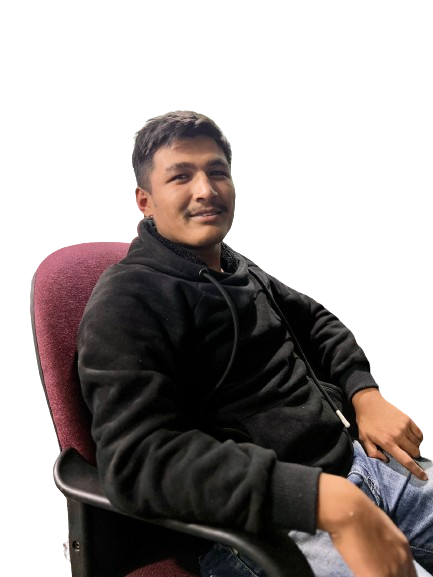
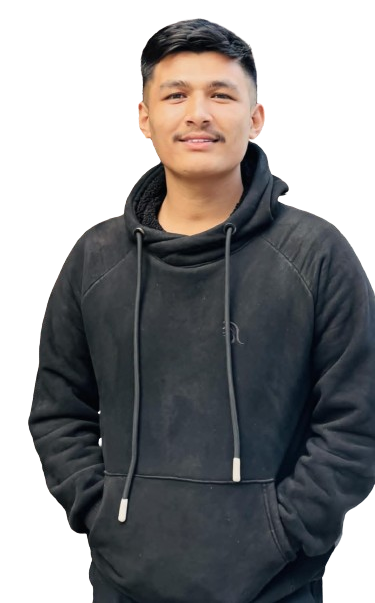
make some minor changes

diff --git a/src/components/Portfolio.jsx b/src/components/Portfolio.jsx
@@ -21,7 +21,7 @@ const Portfolio = () => {
             className="p-4 bg-black text-white rounded shadow-[0_0_10px_2px_rgba(225,225,225,0.3)] space-y-3"
           >
             <Image
-              src="/images/work/hotel-earthlight.png"
+              src="/images/work/saral-lagani.png"
               priority={true}
               height={2000}
               width={2000}
@@ -32,8 +32,8 @@ const Portfolio = () => {
               Saral Lagani
             </h3>
             <p className="text-gray-300">
-              Web application where you can find all
-              information related to NEPSE (Nepal Stock Exchange).
+              Web application where you can find all information related to
+              NEPSE (Nepal Stock Exchange).
             </p>
             <p className="text-red-500 text-sm font-medium">
               NextJS, NodeJS, Firebase, MySQL
@@ -65,6 +65,17 @@ const Portfolio = () => {
             </p>
           </a>
         </div>
+        <p className="text-lg font-medium text-gray-100">
+          More projects on my{" "}
+          <a
+            href="https://github.com/sandipshrest"
+            target="_blank"
+            rel="noreferrer"
+            className="underline text-purple-500"
+          >
+            Github
+          </a>
+        </p>
       </div>
     </section>
   );

diff --git a/src/components/header/page.js b/src/components/header/page.js
@@ -62,7 +62,7 @@ const Header = () => {
     <header
       className={`${
         scrolled ? "bg-black" : "bg-transparent"
-      } fixed w-full top-0 text-white py-4 z-30 transition-all duration-100 ease-linear`}
+      } fixed w-full top-0 text-white py-4 z-[99] transition-all duration-100 ease-linear`}
     >
       <div className="container flex justify-between items-center">
         <div>

diff --git a/src/components/Intro.jsx b/src/components/Intro.jsx
@@ -57,7 +57,7 @@ const Intro = () => {
             height={2000}
             width={2000}
             alt="profile"
-            className="w-full aspect-square rounded-full object-cover drop-shadow"
+            className="w-full lg:h-[600px] h-[450px] object-cover object-top drop-shadow"
           />
         </div>
       </div>

diff --git a/src/components/ParticleAnimation.jsx b/src/components/ParticleAnimation.jsx
@@ -33,7 +33,7 @@ const ParticleAnimation = () => {
           },
           modes: {
             push: {
-              quantity: 90,
+              quantity: 100,
             },
             repulse: {
               distance: 200,

diff --git a/src/app/globals.css b/src/app/globals.css
@@ -22,5 +22,5 @@ input::-moz-selection {
 }
 
 .drop-shadow {
-  filter: drop-shadow(0 2mm 4mm rgba(236, 236, 236, 0.492));
+  filter: drop-shadow(0 2mm 2mm rgba(255, 0, 0, 0.221));
 }
